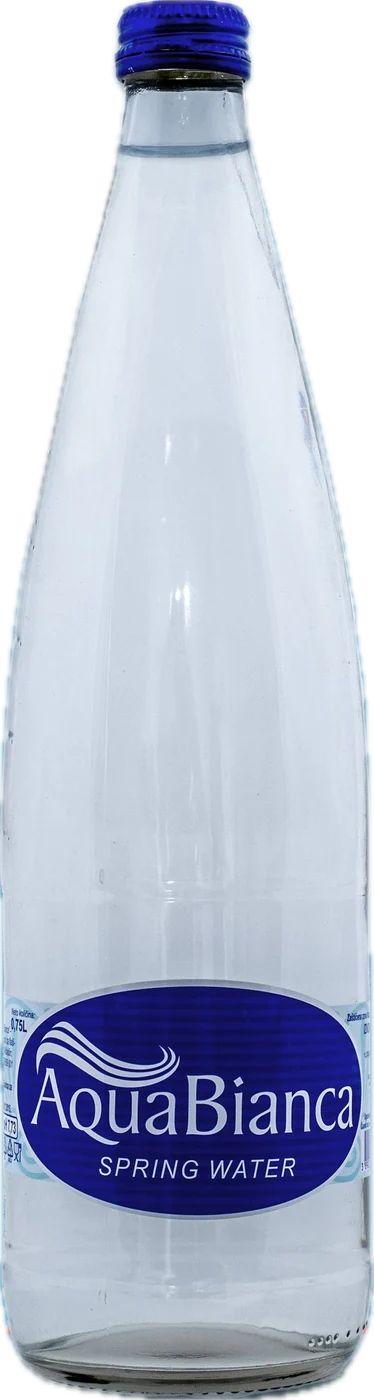
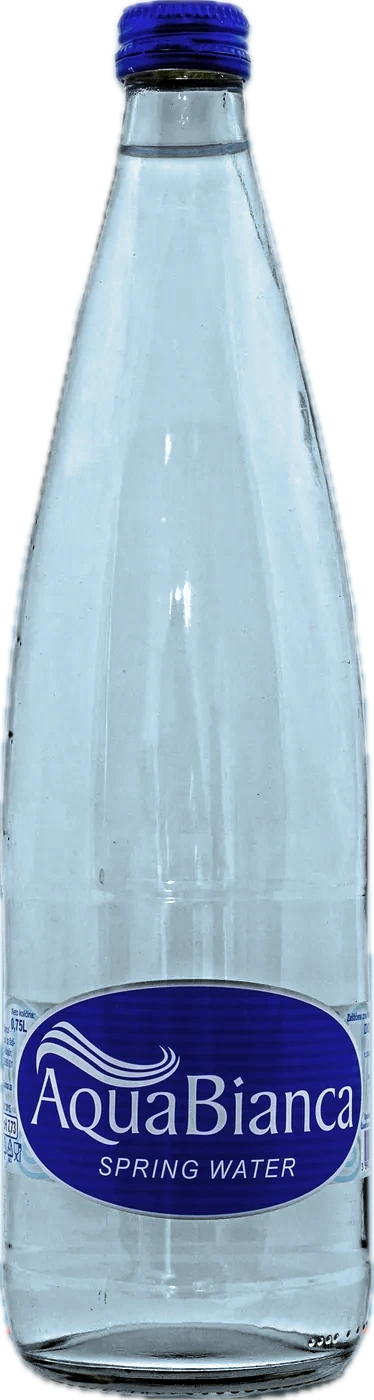
Kontakt: Komercijala i Administrativna uprava, novi partneri, staklene boce kao voda
- Kontakt: „Sjedište“, „Komercijala“ (+382 20 669 001, +382 69 377 069) i „Administrativna uprava“ (+382 69 339 817, office@); uklonjen +382 69 012 512
- Saradnje: Atletski savez Crne Gore, ŽRK Budućnost, PVK Budućnost, Race for the Cure i serija Biser Bojane
- Staklene boce izvorske vode: providno staklo umjesto mliječnog izgleda (pločica, asortiman, scroll priča, partneri, upit)

diff --git a/index.html b/index.html
@@ -88,7 +88,7 @@
     <span class="tile-btn">Pogledaj asortiman</span>
   </a>
   <a class="tile tile-l reveal" href="#asortiman" data-goto="izvorska-staklo">
-    <img src="assets/web/mirna_Staklo_2025.jpg" alt="Izvorska voda Aqua Bianca u staklenoj ambalaži" loading="lazy">
+    <img src="assets/web/mirna_Staklo_2025-voda.jpg" alt="Izvorska voda Aqua Bianca u staklenoj ambalaži" loading="lazy">
     <span class="tile-label">Izvorska voda<small>Staklena ambalaža</small></span>
     <span class="tile-btn">Pogledaj asortiman</span>
   </a>
@@ -297,6 +297,11 @@
         <li class="reveal"><span class="cl-mark"><img class="cl-logo" src="assets/partneri/one.webp" alt="One" width="605" height="300" loading="lazy"></span><span class="cl-x">× Aqua Bianca</span></li>
         <li class="reveal"><span class="cl-mark"><img class="cl-logo" src="assets/partneri/air-montenegro.svg" alt="Air Montenegro" width="286" height="153" loading="lazy"></span><span class="cl-x">× Aqua Bianca</span></li>
         <li class="reveal"><span class="cl-mark"><img class="cl-logo" style="--s:1.15" src="assets/partneri/boranka.webp" alt="Boranka" width="469" height="300" loading="lazy"></span><span class="cl-x">× Aqua Bianca</span></li>
+        <li class="reveal"><span class="cl-mark"><img class="cl-logo" style="--s:0.8" src="assets/partneri/ascg.webp" alt="Atletski savez Crne Gore" width="889" height="133" loading="lazy"></span><span class="cl-x">× Aqua Bianca</span></li>
+        <li class="reveal"><span class="cl-mark"><img class="cl-logo" style="--s:1.3" src="assets/partneri/zrk-buducnost.webp" alt="ŽRK Budućnost" width="246" height="300" loading="lazy"></span><span class="cl-x">× Aqua Bianca</span></li>
+        <li class="reveal"><span class="cl-mark"><img class="cl-logo" style="--s:1.3" src="assets/partneri/pvk-buducnost.webp" alt="PVK Budućnost" width="299" height="300" loading="lazy"></span><span class="cl-x">× Aqua Bianca</span></li>
+        <li class="reveal"><span class="cl-mark"><img class="cl-logo" style="--s:1.3" src="assets/partneri/race-for-the-cure.webp" alt="Race for the Cure" width="304" height="300" loading="lazy"></span><span class="cl-x">× Aqua Bianca</span></li>
+        <li class="reveal"><span class="cl-mark"><img class="cl-logo cl-card" style="--s:1.3" src="assets/partneri/biser-bojane.webp" alt="Biser Bojane" width="715" height="300" loading="lazy"></span><span class="cl-x">Serija × Aqua Bianca</span></li>
       </ul>
     </div>
   </div>
@@ -486,10 +491,10 @@
       <h2 class="h2 reveal">Razgovarajmo.</h2>
       <p class="reveal muted">Za pitanja, saradnju, ponudu ili dostavu galona — javite nam se.</p>
       <div class="addr reveal">
-        <div><h4>Uprava</h4><p>DOO „Aqua Bianca“<br>Manastirska 25, Podgorica</p></div>
+        <div><h4>Sjedište</h4><p>DOO „Aqua Bianca“<br>Manastirska 25, Podgorica</p></div>
         <div><h4>Pogon za preradu i flaširanje vode</h4><p>Radigojno bb, Kolašin</p></div>
-        <div><h4>Telefon za potrošače</h4><p><a href="tel:+38220669001">+382 20 669 001</a><br><a href="tel:+38269012512">+382 69 012 512</a><br><a href="tel:+38269377069">+382 69 377 069</a></p></div>
-        <div><h4>E-mail</h4><p><a href="mailto:office@aquabianca.com">office@aquabianca.com</a></p></div>
+        <div><h4>Komercijala</h4><p><a href="tel:+38220669001">+382 20 669 001</a><br><a href="tel:+38269377069">+382 69 377 069</a></p></div>
+        <div><h4>Administrativna uprava</h4><p><a href="tel:+38269339817">+382 69 339 817</a><br><a href="mailto:office@aquabianca.com">office@aquabianca.com</a></p></div>
       </div>
     </div>
     <form class="form reveal" id="contactForm">

diff --git a/i18n.js b/i18n.js
@@ -95,8 +95,8 @@ const EN = new Map(Object.entries({
   'Isporuka': 'Delivery', 'Redovna isporuka iz pogona u Kolašinu.': 'Regular deliveries from our plant in Kolašin.',
   // contact
   'Razgovarajmo.': "Let's talk.", 'Za pitanja, saradnju, ponudu ili dostavu galona — javite nam se.': 'Questions, partnerships, quotes or cooler bottle delivery — get in touch.',
-  'Uprava': 'Head office', 'DOO „Aqua Bianca“': 'Aqua Bianca d.o.o.', 'Manastirska 25, Podgorica': 'Manastirska 25, Podgorica, Montenegro',
-  'Pogon za preradu i flaširanje vode': 'Water processing and bottling plant', 'Telefon za potrošače': 'Consumer line',
+  'Sjedište': 'Head office', 'DOO „Aqua Bianca“': 'Aqua Bianca d.o.o.', 'Manastirska 25, Podgorica': 'Manastirska 25, Podgorica, Montenegro',
+  'Pogon za preradu i flaširanje vode': 'Water processing and bottling plant', 'Komercijala': 'Sales', 'Administrativna uprava': 'Administration',
   'Ime i prezime': 'Full name', 'Kompanija (opciono)': 'Company (optional)', 'Telefon': 'Phone', 'Tema': 'Subject',
   'Opšti upit': 'General enquiry', 'Distribucija / veleprodaja': 'Distribution / wholesale', 'Maloprodaja': 'Retail',
   'Galoni za kancelariju / dom': 'Cooler bottles for office / home', 'Mediji': 'Media', 'Grad / region': 'City / region',
@@ -143,7 +143,7 @@ const EN = new Map(Object.entries({
   'Za koga': 'For', 'Hoteli, restorani, resorti': 'Hotels, restaurants, resorts', 'Boce sa vašim imenom': 'Bottles with your name',
   'Boca Aqua Bianca sa etiketom restorana Babi': 'Aqua Bianca bottle with the Babi restaurant label',
   // collaborations
-  'Saradnje': 'Partnerships', 'koje traju.': 'that last.',
+  'Saradnje': 'Partnerships', 'koje traju.': 'that last.', 'Serija × Aqua Bianca': 'TV series × Aqua Bianca',
   'Godinama sarađujemo sa partnerima koji, kao i mi, okupljaju ljude širom Crne Gore.': 'For years we have worked with partners who, like us, bring people together across Montenegro.',
   // video
   'Boca Aqua Bianca izranja iz mape Crne Gore, kod Kolašina': 'An Aqua Bianca bottle rising from a map of Montenegro, near Kolašin',

diff --git a/styles.css b/styles.css
@@ -265,6 +265,7 @@ p{max-width:62ch}
 .cl-mark{height:clamp(64px,6vw,88px);display:flex;align-items:center}
 /* logos have different shapes, so each gets its own optical size (--s) */
 .cl-logo{height:calc(72% * var(--s,1));width:auto;max-width:100%;object-fit:contain}
+.cl-card{border-radius:6px}
 .collab-list li:nth-child(odd){padding-right:24px;border-right:1px solid var(--line)}
 .collab-list li:nth-child(even){padding-left:28px}
 .cl-name{font-family:var(--serif);font-weight:300;font-size:clamp(26px,2.6vw,38px);line-height:1.05;letter-spacing:-.03em;color:var(--ink)}
